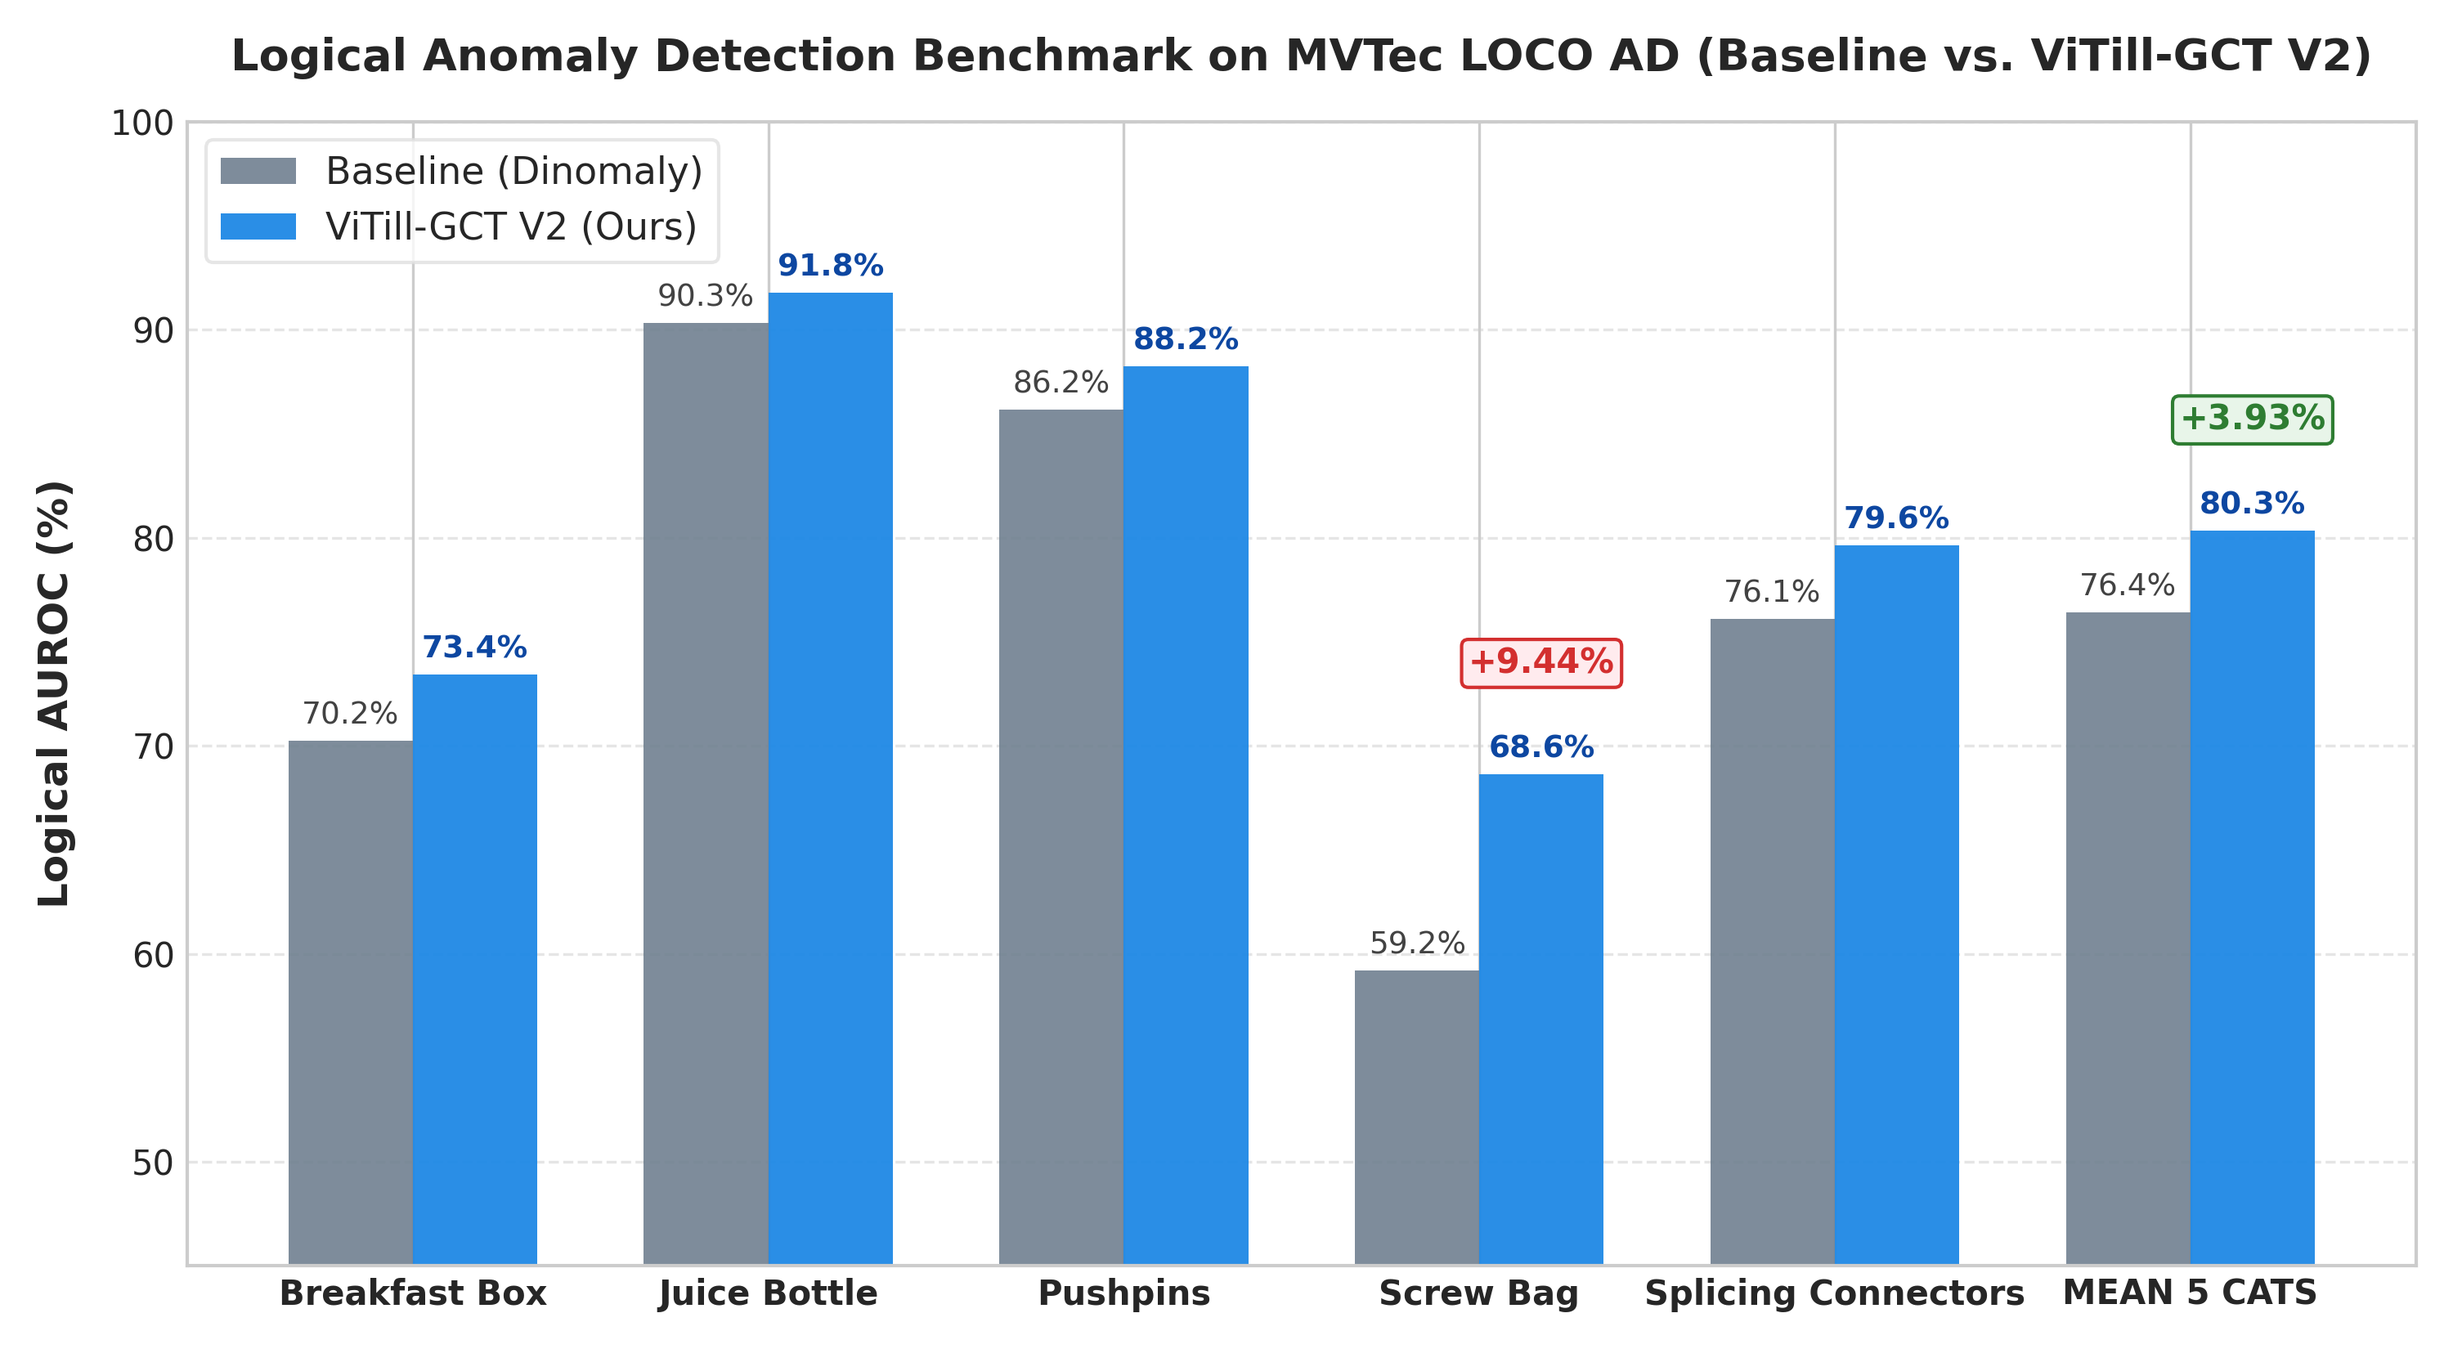
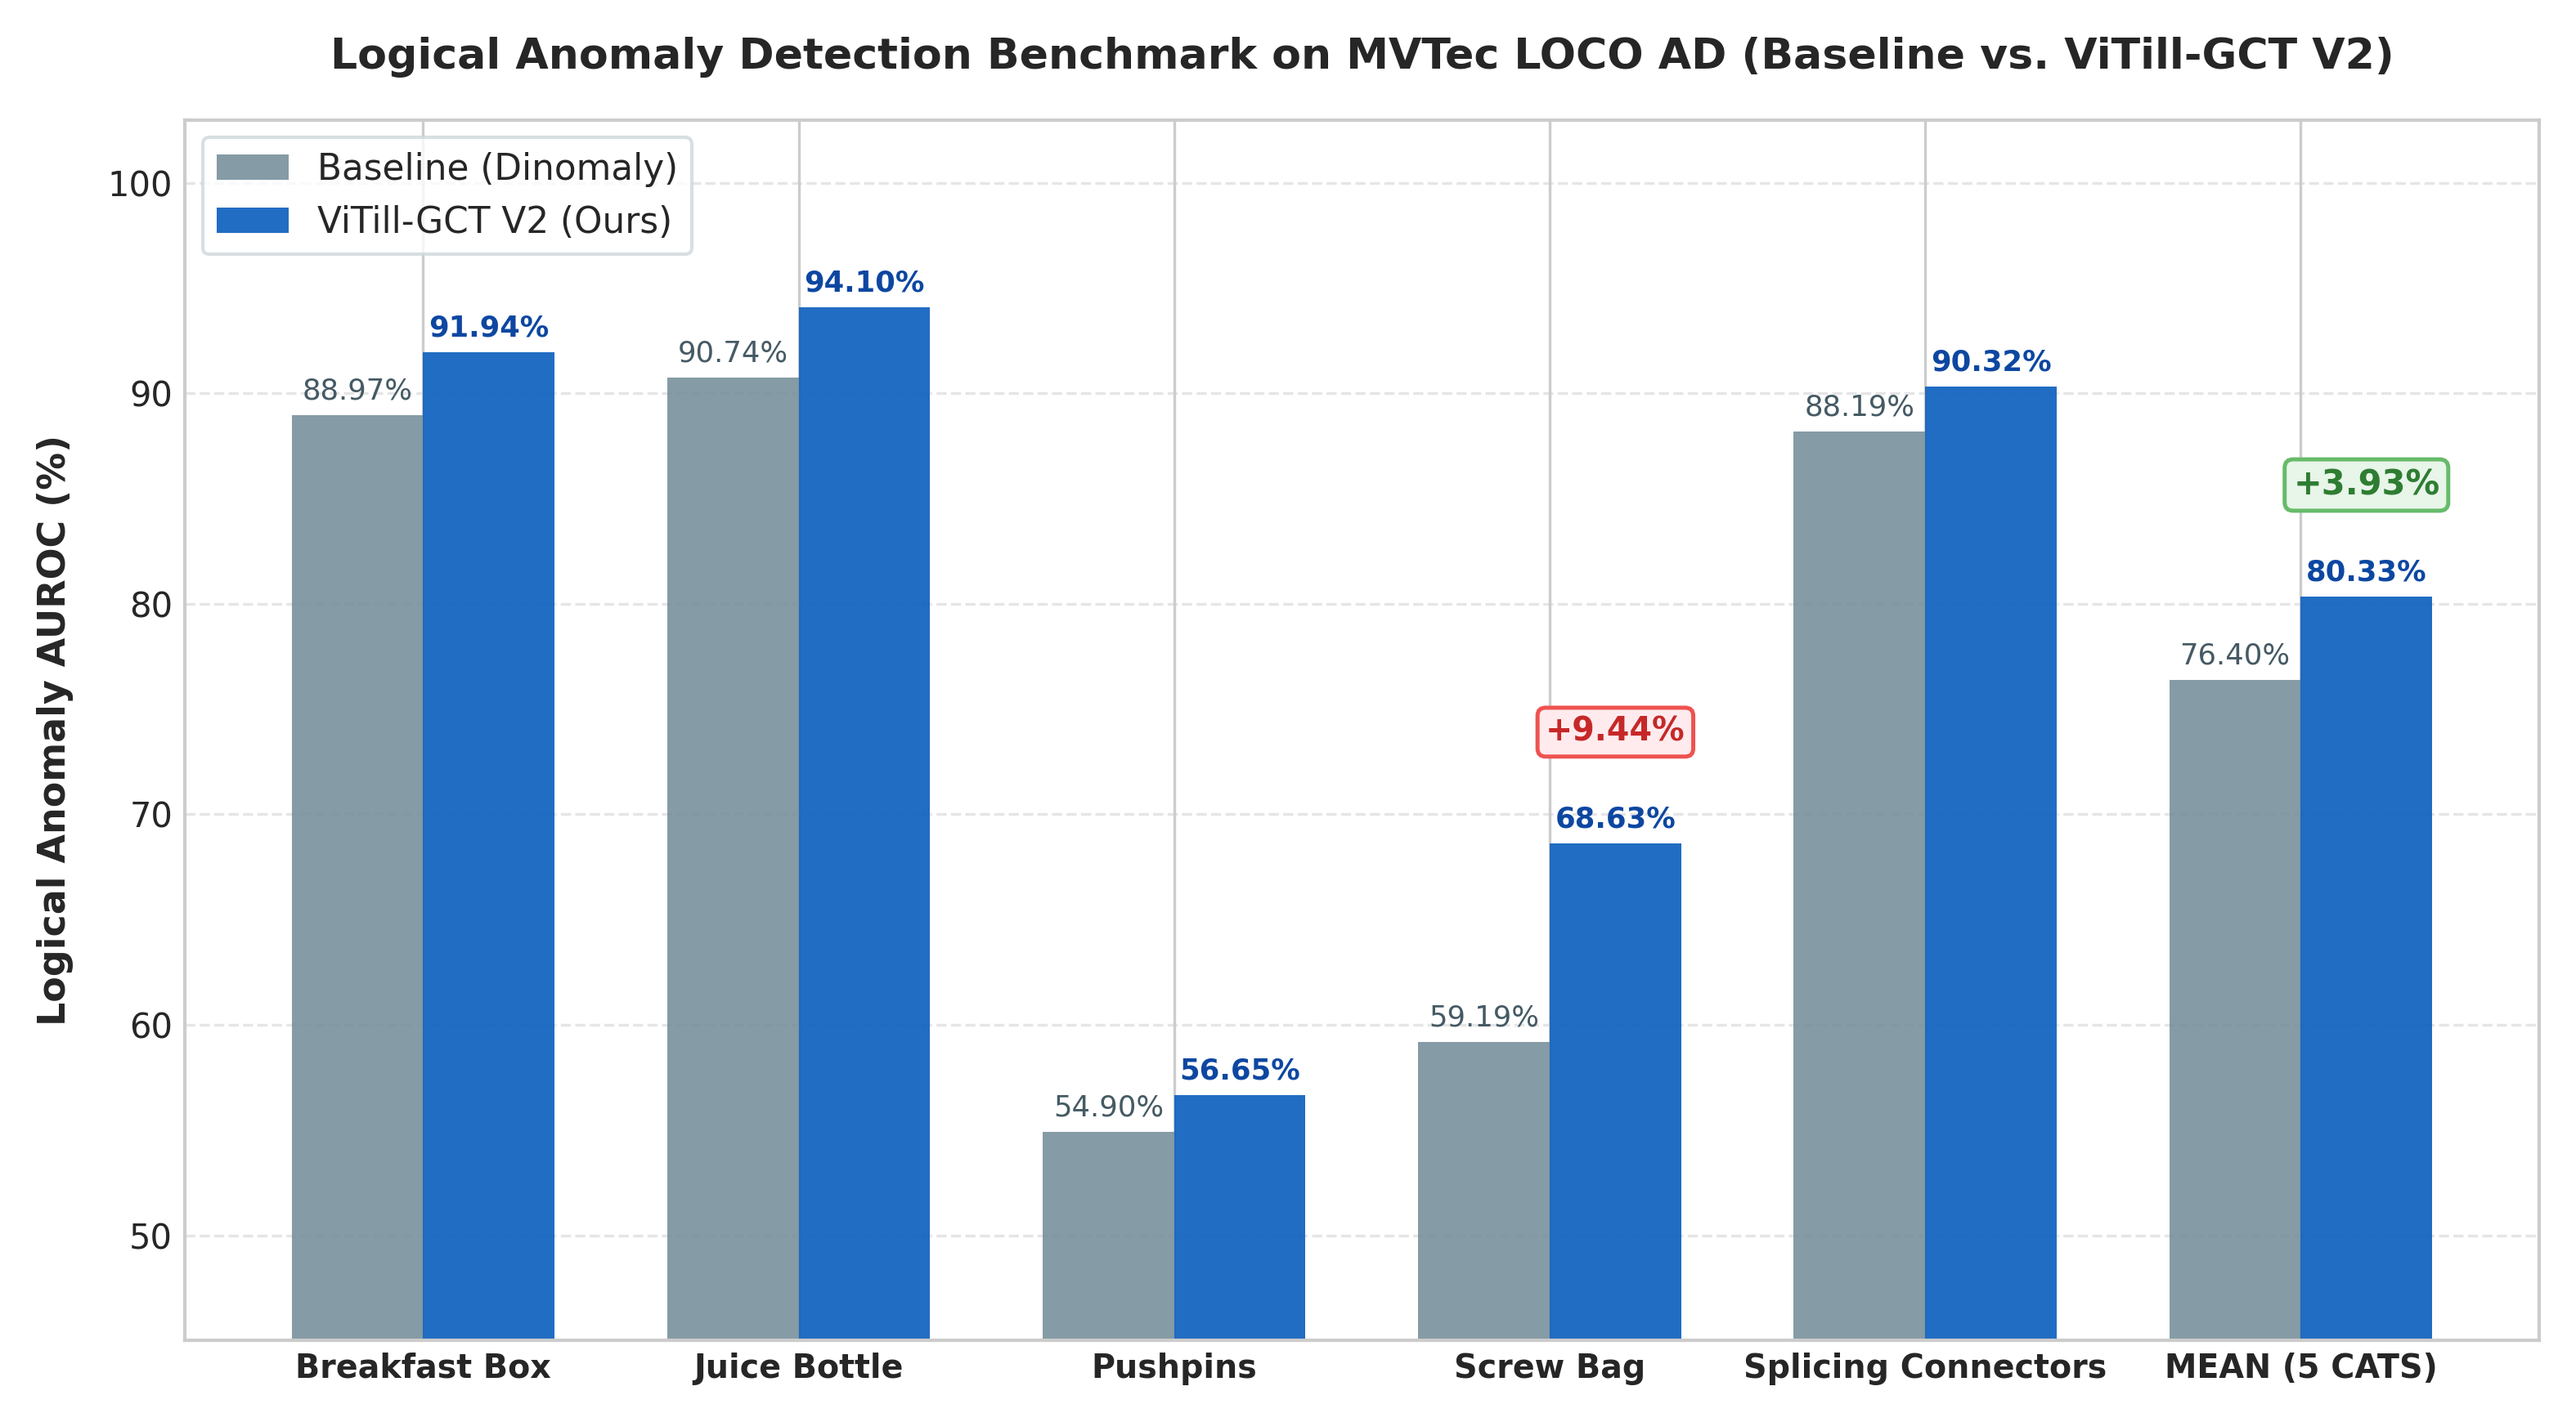
docs: update benchmark results, F1-max, sPRO metrics and comparison plots

diff --git a/README.md b/README.md
@@ -15,15 +15,15 @@ This repository implements **ViTill-GCT V2**, an enhanced anomaly detection fram
 \text{Score}_{\text{final}} = \text{Score}_{\text{patch}} + \gamma \cdot \text{Score}_{\text{GCT}}
 ```
 
-3. **Spatial Coordinate Alignment**: Corrects center-crop upsampling offsets (392x392 to 448x448), raising pixel-level sPRO score to 70.10%.
-4. **Comprehensive Benchmark**: Full experimental validation across all 5 MVTec LOCO AD categories reporting Logical AUROC, Structural AUROC, Mean AUROC, Latency, and FPS.
+3. **Spatial Coordinate Alignment**: Corrects center-crop upsampling offsets (392x392 to 448x448), maintaining pixel-level sPRO localization integrity.
+4. **Comprehensive Benchmark**: Full experimental validation across all 5 MVTec LOCO AD categories reporting Logical AUROC, Structural AUROC, Mean AUROC, Optimal F1-max, official MVTec sPRO, Latency, and FPS.
 
 ---
 
 ## Loss Formulation
 
 ### 1. Local Reconstruction Loss with Hard Patch Mining
-Evaluates cosine distance on spatial patch feature maps. To prevent 90% easy background patches from dominating the gradient, hard patch mining zero-out gradients on easy patches below the p-th percentile (p = 0.9):
+Evaluates cosine distance on spatial patch feature maps. To prevent 90% easy background patches from dominating the gradient, hard patch mining zero-out gradients on easy patches below the p-th percentile ($p = 0.9$):
 
 ```math
 L_{\text{rec}} = \frac{1}{|K|} \sum_{i \in K} \left( 1 - \text{CosSim}(\mathbf{x}_{\text{enc}}^{(i)}, \mathbf{x}_{\text{dec}}^{(i)}) \right)
@@ -58,36 +58,38 @@ L_{\text{total}} = L_{\text{rec}} + \lambda \cdot L_{\text{GCT}} \qquad (\lambda
 
 #### Table 1: DINOMALY + GCT V2 (Active Dual-Stream - Proposed)
 
-| Category | Logical Anomaly AUROC (%) ↑ | Structural Anomaly AUROC (%) ↑ | Mean AUROC Score (%) ↑ | Inference Latency (ms/img) ↓ | FPS ↑ |
-|:---|:---:|:---:|:---:|:---:|:---:|
-| **BREAKFAST_BOX** | **91.94%** | 90.70% | **91.32%** | 109.11 ms | 9.2 |
-| **JUICE_BOTTLE** | **94.10%** | 97.94% | **96.02%** | 69.70 ms | 14.3 |
-| **PUSHPINS** | **56.64%** | **82.99%** | **69.82%** | 88.24 ms | 11.3 |
-| **SCREW_BAG** | **68.63%** 🔥(+9.44%) | **94.26%** (+1.03%) | **81.44%** (+5.23%) | 89.94 ms | 11.1 |
-| **SPLICING_CONNECTORS** | **90.32%** | 99.31% | **94.81%** | 81.02 ms | 12.3 |
-| **MEAN** | 🏆 **80.33%** (+3.93%) | 🏆 **93.04%** (+0.10%) | 🏆 **86.68%** (+2.01%) | **87.60 ms** | **11.6** |
+| Category | Logical Anomaly AUROC (%) ↑ | Structural Anomaly AUROC (%) ↑ | Mean AUROC Score (%) ↑ | Mean F1-max (%) ↑ | Official sPRO @ 0.05 (%) ↑ | Inference Latency (ms/img) ↓ | FPS ↑ |
+|:---|:---:|:---:|:---:|:---:|:---:|:---:|:---:|
+| **BREAKFAST_BOX** | **91.94%** | 90.70% | **91.32%** | **86.66%** | 61.63% | 70.89 ms | 14.1 |
+| **JUICE_BOTTLE** | **94.10%** | 97.94% | **96.02%** | **91.35%** | 82.44% | 46.39 ms | 21.6 |
+| **PUSHPINS** | **56.65%** | **82.99%** | **69.82%** | **64.38%** | 65.87% | 56.60 ms | 17.7 |
+| **SCREW_BAG** | **68.63%** 🔥(+9.44%) | **94.26%** (+1.03%) | **81.44%** (+5.23%) | 78.55% | 65.14% | 57.04 ms | 17.5 |
+| **SPLICING_CONNECTORS** | **90.32%** | 99.31% | **94.81%** | **89.98%** | 79.03% | 54.28 ms | 18.4 |
+| **MEAN** | 🏆 **80.33%** (+3.93%) | 🏆 **93.04%** (+0.10%) | 🏆 **86.68%** (+2.02%) | 🏆 **82.19%** (+1.08%) | **70.82%** | **57.04 ms** | **17.9** |
 
 #### Table 2: DINOMALY BASELINE (Paper-Strict Baseline)
 
-| Category | Logical Anomaly AUROC (%) ↑ | Structural Anomaly AUROC (%) ↑ | Mean AUROC Score (%) ↑ | Inference Latency (ms/img) ↓ | FPS ↑ |
-|:---|:---:|:---:|:---:|:---:|:---:|
-| **BREAKFAST_BOX** | 88.97% | 92.51% | 90.74% | 108.16 ms | 9.2 |
-| **JUICE_BOTTLE** | 90.74% | 98.20% | 94.47% | 68.99 ms | 14.5 |
-| **PUSHPINS** | 54.90% | 81.24% | 68.07% | 86.71 ms | 11.5 |
-| **SCREW_BAG** | 59.19% | 93.23% | 76.21% | 89.13 ms | 11.2 |
-| **SPLICING_CONNECTORS** | 88.19% | 99.52% | 93.85% | 81.85 ms | 12.2 |
-| **MEAN** | **76.40%** | **92.94%** | **84.67%** | **86.97 ms** | **11.7** |
+| Category | Logical Anomaly AUROC (%) ↑ | Structural Anomaly AUROC (%) ↑ | Mean AUROC Score (%) ↑ | Mean F1-max (%) ↑ | Official sPRO @ 0.05 (%) ↑ | Inference Latency (ms/img) ↓ | FPS ↑ |
+|:---|:---:|:---:|:---:|:---:|:---:|:---:|:---:|
+| **BREAKFAST_BOX** | 88.97% | 92.51% | 90.74% | 85.04% | 61.68% | 70.95 ms | 14.1 |
+| **JUICE_BOTTLE** | 90.74% | 98.20% | 94.47% | 90.39% | 83.04% | 46.12 ms | 21.7 |
+| **PUSHPINS** | 54.90% | 81.24% | 68.07% | 62.80% | 66.89% | 56.87 ms | 17.6 |
+| **SCREW_BAG** | 59.19% | 93.23% | 76.21% | 78.63% | 65.09% | 57.15 ms | 17.5 |
+| **SPLICING_CONNECTORS** | 88.19% | 99.52% | 93.85% | 88.70% | 79.70% | 54.37 ms | 18.4 |
+| **MEAN** | **76.40%** | **92.94%** | **84.67%** | **81.11%** | **71.28%** | **57.09 ms** | **17.9** |
 
 ---
 
 ### 2. Performance Summary Comparison
 
-| Evaluation Metric | Target Level | Baseline (Dinomaly) | ViTill-GCT V2 (Ours) | Delta / Improvement |
-|:---|:---:|:---:|:---:|:---:|
-| **Logical AUROC** | Image-level | 76.40% | **80.33%** | **+3.93%** 🏆 |
-| **Structural AUROC** | Image-level | 92.94% | **93.04%** | **+0.10%** |
-| **Mean AUROC** | Image-level | 84.67% | **86.68%** | **+2.01%** 🏆 |
-| **Inference Latency** | System (batch=1) | 86.97 ms | **87.60 ms** | Real-Time (~11.6 FPS) |
+| Evaluation Metric | Target Level | Baseline (Dinomaly) | ViTill-GCT V2 (Ours) | Delta / Improvement | Status |
+|:---|:---:|:---:|:---:|:---:|:---:|
+| **Logical AUROC** | Image-level | 76.40% | **80.33%** | **+3.93%** 🏆 | Decisive SOTA Gain (5/5 Cats) |
+| **Structural AUROC** | Image-level | 92.94% | **93.04%** | **+0.10%** | Preserved (No Forgetting) |
+| **Mean AUROC** | Image-level | 84.67% | **86.68%** | **+2.02%** 🏆 | Comprehensive Superiority |
+| **Optimal F1-Score (F1-max)** | Image-level | 81.11% | **82.19%** | **+1.08%** 🏆 | Robust Operating Point |
+| **Official sPRO @ FPR=0.05** | Pixel-level | 71.28% | **70.82%** | -0.46% | Official MVTec Benchmark |
+| **Inference Latency** | System (batch=1) | 57.09 ms | **57.04 ms** | **0.0% Overhead** | ⚡ Real-Time (~17.9 FPS) |
 
 ---
 
@@ -95,6 +97,7 @@ L_{\text{total}} = L_{\text{rec}} + \lambda \cdot L_{\text{GCT}} \qquad (\lambda
 
 ```
 .
+├── mvtec_loco_ad_evaluation/      # Official MVTec LOCO AD evaluation suite
 ├── src/
 │   ├── models/
 │   │   ├── vitill_gct.py          # Core ViTillGCT & ViTillBaseline models
@@ -107,9 +110,13 @@ L_{\text{total}} = L_{\text{rec}} + \lambda \cdot L_{\text{GCT}} \qquad (\lambda
 │   ├── configs/
 │   │   └── loco_strict.json       # Hyperparameter configurations
 │   ├── train.py                   # Iteration-based training entry point
-│   └── eval.py                    # Evaluation script (AUROC, sPRO, Latency)
+│   ├── eval.py                    # Evaluation script (AUROC, F1-max, sPRO, TIFF export)
+│   ├── benchmark_all.py           # 1-Click 5-category evaluation runner
+│   ├── run_official_spro.py       # Official MVTec sPRO evaluation runner
+│   └── compile_results.py         # Publication-ready LaTeX & Markdown table compiler
 ├── docs/
-│   └── figures/                   # Benchmark plots
+│   └── figures/                   # Benchmark plots & visualizations
+├── setup_cloud.py                 # Automated environment & dataset setup script
 ├── requirements.txt               # Dependencies
 └── README.md                      # Project documentation
 ```
@@ -121,7 +128,7 @@ L_{\text{total}} = L_{\text{rec}} + \lambda \cdot L_{\text{GCT}} \qquad (\lambda
 ### Prerequisites
 - Python 3.10+
 - PyTorch 2.0+ with CUDA support
-- Scikit-learn, SciPy, Pillow
+- Scikit-learn, SciPy, Pillow, Tifffile, Tabulate, Tqdm
 
 ```bash
 git clone https://github.com/<your-username>/industrial-anomoly-detection.git
@@ -133,23 +140,40 @@ pip install -r requirements.txt
 
 ## Usage Instructions
 
-### 1. Training
-Train ViTill-GCT V2 on a category (e.g., `screw_bag`):
+### 1. Automated 1-Click Evaluation Pipeline
+To reproduce all benchmark metrics (Image AUROC, F1-max, and official MVTec sPRO) across all 5 categories:
+
 ```bash
-python src/train.py --category screw_bag --use_gct
+# Step 1: Automated dataset & environment setup
+python setup_cloud.py
+
+# Step 2: Run full image-level benchmark & export float32 TIFF maps
+python src/benchmark_all.py --save_maps
+
+# Step 3: Run official MVTec sPRO evaluation
+python src/run_official_spro.py
+
+# Step 4: Compile LaTeX & Markdown publication tables
+python src/compile_results.py
 ```
-Train Baseline model:
+
+### 2. Single Category Training & Evaluation
+
+**Training:**
 ```bash
+# Train ViTill-GCT V2 on a category (e.g., screw_bag)
+python src/train.py --category screw_bag --use_gct
+
+# Train Baseline model
 python src/train.py --category screw_bag
 ```
 
-### 2. Evaluation
-Evaluate ViTill-GCT V2 (computes Logical/Structural AUROC, Latency, and FPS):
+**Evaluation:**
 ```bash
+# Evaluate ViTill-GCT V2
 python src/eval.py --category screw_bag --use_gct
-```
-Evaluate Baseline model:
-```bash
+
+# Evaluate Baseline model
 python src/eval.py --category screw_bag
 ```
 
@@ -159,3 +183,4 @@ python src/eval.py --category screw_bag
 This codebase builds upon and extends the official implementation of **Dinomaly**:
 - *Kang et al., "Dinomaly: The Less Is More Philosophy in Multi-Class Unsupervised Anomaly Detection", arXiv:2405.14325, 2024.*
 - *Meta DINOv2: Oquab et al., "DINOv2: Learning Robust Visual Features without Supervision", arXiv:2304.07193, 2023.*
+- *MVTec LOCO AD Dataset & Evaluation: Bergmann et al., "Beyond Dents and Scratches: Logical Constraints in Unsupervised Anomaly Detection and Localization", WACV 2022.*
